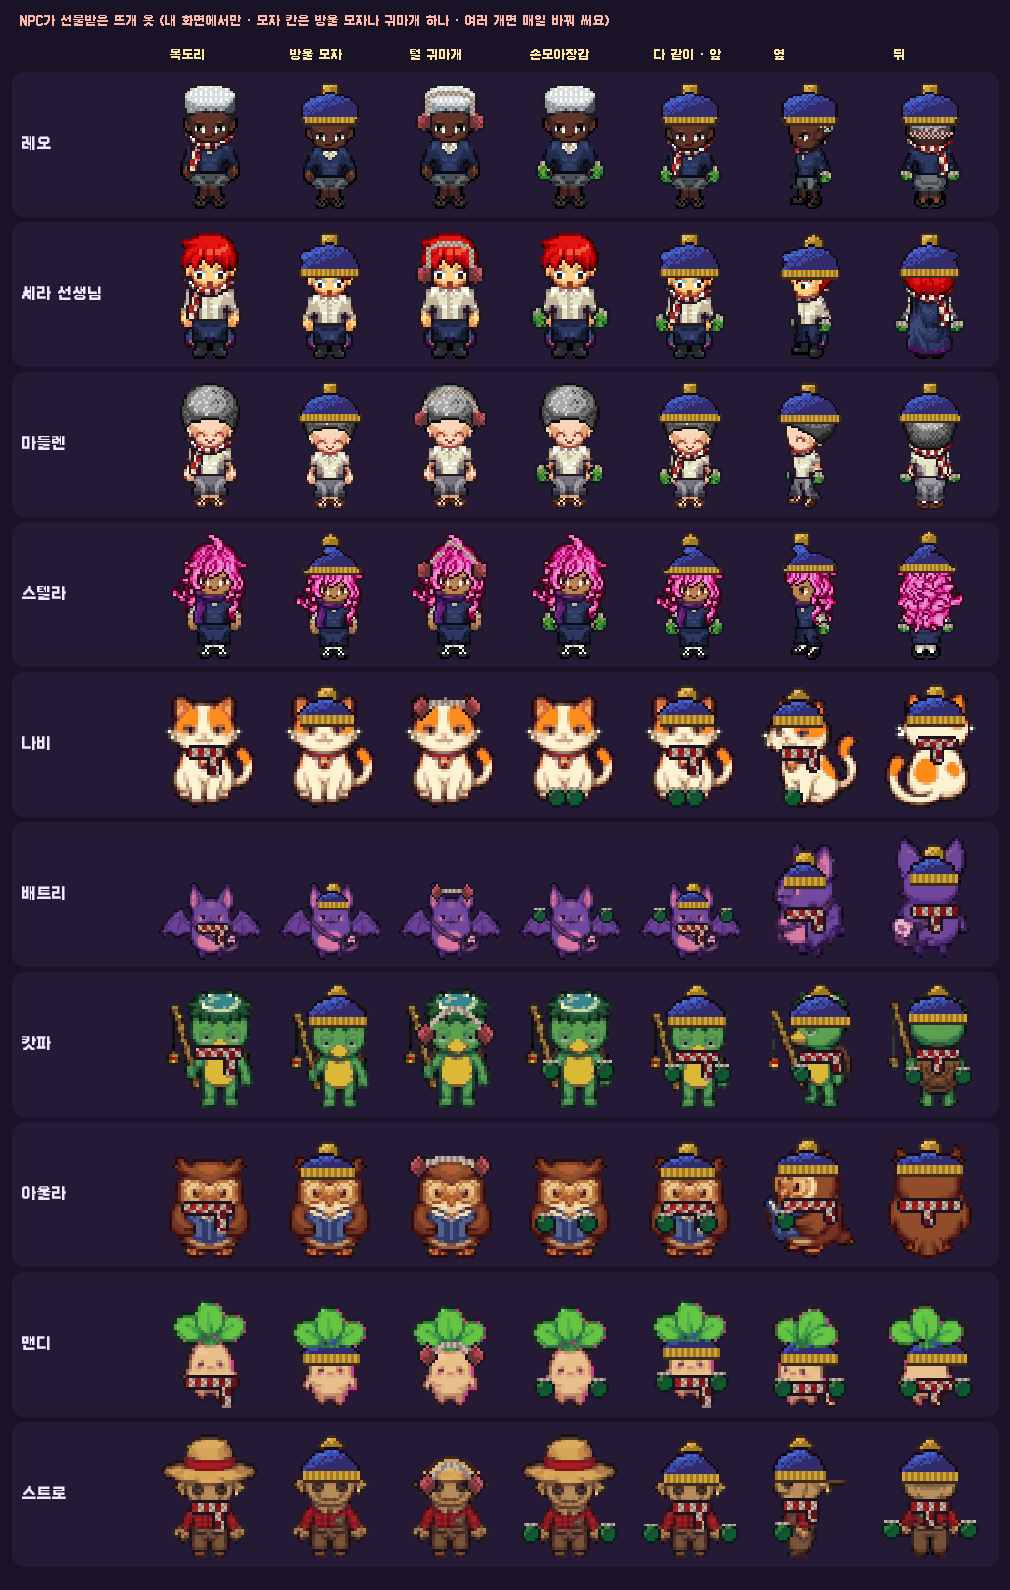
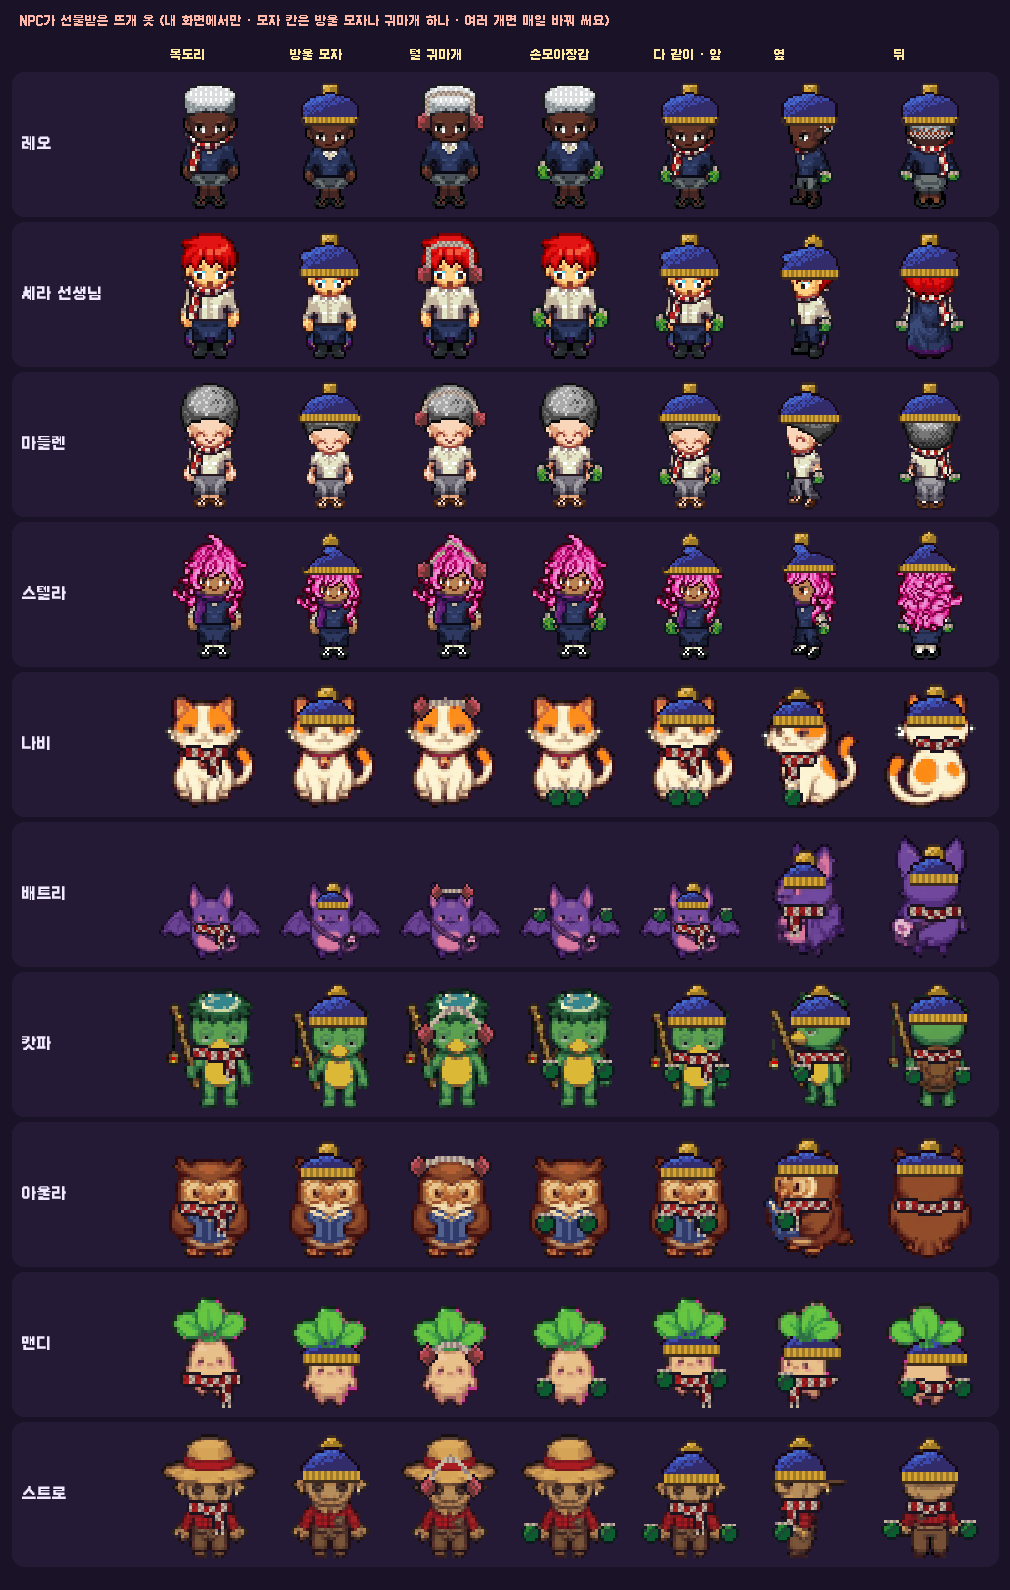
동물 NPC 뜨개 옷 옆 · 뒤 다듬기 (목도리를 몸 윤곽에 맞춰 · 끝자락 위치), 스트로 귀마개는 밀짚모자 위로
Claude-Session: https://claude.ai/code/session_01HhJ2NoNCjk5kaA3GWL7UDs

diff --git a/tools/iso/lpc/knit_npc.py b/tools/iso/lpc/knit_npc.py
@@ -121,23 +121,23 @@ class View:
 # 그림 NPC(동물 등): 앞 · 옆 · 뒤마다 직접 잡은 자리 — 모자(dome x0, x1, 꼭대기 y, 챙 y) · 귀마개(솜방울 자리들) · 목(y, x0, x1) · 손(자리들)
 SP_ = {
  'npc0': {'': dict(hat=(21, 36, 23, 30), muff=[(20, 25), (37, 25)], neck=(40, 23, 34), hands=[(25, 55), (31, 55)]),            # 나비: 귀는 모자 밖으로 · 귀마개는 귀에
-          '_side': dict(hat=(19, 33, 23, 30), muff=[(30, 25)], neck=(40, 21, 32), hands=[(24, 55)]),
+          '_side': dict(hat=(19, 33, 23, 30), muff=[(30, 25)], neck=(42, 22, 30), hands=[(24, 55)]),
           '_back': dict(hat=(25, 42, 21, 29), muff=[(23, 23), (43, 23)], neck=(36, 28, 40), hands=[])},
  'npc1': {'': dict(hat=(27, 38, 22, 28), muff=[(25, 21), (39, 21)], neck=(38, 26, 39), hands=[(17, 32), (48, 32)]),            # 배트리: 손 = 날개 끝 발톱
-          '_side': dict(hat=(24, 35, 22, 28), muff=[(33, 21)], neck=(38, 24, 35), hands=[]),
+          '_side': dict(hat=(24, 35, 22, 28), muff=[(33, 21)], neck=(37, 24, 34), hands=[]),
           '_back': dict(hat=(27, 40, 20, 27), muff=[(25, 18), (42, 18)], neck=(37, 27, 41), hands=[])},
  'npc2': {'': dict(hat=(25, 43, 18, 27), muff=[(24, 33), (44, 33)], neck=(39, 27, 41), hands=[(25, 45), (43, 45)]),            # 캇파: 접시 위로 · 손은 양옆
           '_side': dict(hat=(26, 44, 18, 27), muff=[(38, 32)], neck=(39, 28, 42), hands=[(28, 45)]),
           '_back': dict(hat=(26, 44, 18, 26), muff=[(25, 32), (45, 32)], neck=(38, 28, 42), hands=[(26, 46), (44, 46)])},
  'npc3': {'': dict(hat=(24, 39, 24, 30), muff=[(21, 27), (42, 27)], neck=(41, 24, 39), hands=[(24, 46), (38, 46)]),            # 아울라: 손 = 책 든 날개 끝
-          '_side': dict(hat=(23, 40, 24, 30), muff=[(36, 28)], neck=(41, 24, 40), hands=[(24, 46)]),
+          '_side': dict(hat=(23, 40, 24, 30), muff=[(36, 28)], neck=(41, 25, 37), hands=[(24, 46)]),
           '_back': dict(hat=(22, 41, 23, 29), muff=[(20, 27), (43, 27)], neck=(40, 22, 41), hands=[])},
  'npc4': {'': dict(hat=(27, 43, 36, 43), muff=[(27, 41), (43, 41)], neck=(52, 27, 43), hands=[(26, 52), (44, 52)], leaves=True),   # 맨디: 잎은 모자 위로 쏙
-          '_side': dict(hat=(25, 41, 36, 43), muff=[(37, 41)], neck=(52, 25, 41), hands=[(24, 52), (42, 52)], leaves=True),
+          '_side': dict(hat=(25, 41, 36, 43), muff=[(37, 41)], neck=(52, 25, 41), hands=[(24, 52)], leaves=True),
           '_back': dict(hat=(27, 44, 36, 43), muff=[(27, 41), (44, 41)], neck=(51, 27, 43), hands=[(26, 52), (44, 52)], leaves=True)},
- 'npc5': {'': dict(hat=(24, 40, 22, 31), muff=[(24, 33), (40, 33)], neck=(40, 26, 38), hands=[(18, 49), (45, 49)], strip=31),   # 스트로: 밀짚모자 벗고 털모자
-          '_side': dict(hat=(25, 39, 22, 31), muff=[(35, 33)], neck=(40, 27, 37), hands=[(26, 49)], strip=31),
-          '_back': dict(hat=(24, 40, 22, 31), muff=[(24, 33), (40, 33)], neck=(40, 26, 38), hands=[(19, 48), (45, 48)], strip=31)},
+ 'npc5': {'': dict(hat=(24, 40, 22, 31), muff=[(24, 33), (40, 33)], neck=(40, 26, 38), hands=[(18, 49), (45, 49)], strip=31, mufftop=14),   # 스트로: 밀짚모자 벗고 털모자
+          '_side': dict(hat=(25, 39, 22, 31), muff=[(35, 33)], neck=(40, 27, 37), hands=[(26, 49)], strip=31, mufftop=15),
+          '_back': dict(hat=(24, 40, 22, 31), muff=[(24, 33), (40, 33)], neck=(40, 26, 38), hands=[(19, 48), (45, 48)], strip=31, mufftop=14)},
 }
 class SpriteView:
     def __init__(s, v, who):
@@ -184,19 +184,18 @@ class SpriteView:
         return over(s.base, lay)
     def muff(s, a, b):
         base0 = s.base
-        if s.bare is not None and s.base is s.orig: s.base = s.bare
         try: return s._muff(a, b)
         finally: s.base = base0
     def _muff(s, a, b):
         lay = Image.new('RGBA', (64, 64), (0, 0, 0, 0)); P = lay.load(); ra, rb = RAMP[YARN[a]], RAMP[YARN[b]]; pts = s.p['muff']
         if len(pts) == 2:   # 두 솜방울을 머리 위로 잇는 띠
-            (ax_, ay_), (bx_, by_) = pts; _, _, top, _ = s.p['hat']; topy = top - 1
+            (ax_, ay_), (bx_, by_) = pts; _, _, top, _ = s.p['hat']; topy = s.p.get('mufftop', top - 1)
             for i in range(41):
                 t = i / 40; x = round(ax_ + (bx_ - ax_) * t); y = round((1 - t) ** 2 * ay_ + 2 * (1 - t) * t * (topy - 2) + t * t * by_)
                 for dy in (0, 1): P[x, y + dy] = (rb[3] if (x + y) % 2 else rb[2]) + (255,)
         else:
             (ax_, ay_), = pts; _, _, top, _ = s.p['hat']
-            for y in range(top - 1, ay_ - 2):
+            for y in range(s.p.get('mufftop', top - 1), ay_ - 2):
                 for dx in (0, 1): P[ax_ + dx, y] = (rb[3] if y % 2 else rb[2]) + (255,)
         for (cx, cy) in pts:
             puff = [(x, y) for y in range(64) for x in range(64) if ((x - cx) / 2.6) ** 2 + ((y - cy) / 3) ** 2 <= 1]
@@ -204,16 +203,23 @@ class SpriteView:
             lpc_fill(lay, puff, ra, light=(-1 if cx < 32 else 1, -1))
         return over(s.base, lay)
     def scarf(s, a, b, neck=None):
-        y0, x0, x1 = s.p['neck']; lay = Image.new('RGBA', (64, 64), (0, 0, 0, 0)); P = lay.load(); ra, rb = RAMP[YARN[a]], RAMP[YARN[b]]
-        band = [(x, y) for y in range(y0 - 1, y0 + 2) for x in range(x0, x1 + 1)]; tail = []
+        """몸 윤곽에 맞춰 감은 목도리: 띠는 몸이 있는 칸 + 양 끝 1 칸 두께 · 가운데가 1 칸 처져요 · 끝자락은 앞(앞모습 한쪽 · 옆모습 가슴 쪽)에만"""
+        y0, x0, x1 = s.p['neck']; lay = Image.new('RGBA', (64, 64), (0, 0, 0, 0)); P = lay.load(); ra, rb = RAMP[YARN[a]], RAMP[YARN[b]]; B = s.B
+        band = []; mid = (x0 + x1) / 2; half = max(1, (x1 - x0) / 2)
+        for x in range(x0 - 1, x1 + 2):
+            sag = 1 if abs(x - mid) < half * .45 and s.v != '_side' else 0
+            for y in range(y0 - 1 + sag, y0 + 2 + sag):
+                inside = B[x, y][3] > 0 or B[max(0, x - 1), y][3] > 0 or B[min(63, x + 1), y][3] > 0
+                if inside: band.append((x, y))
+        tail = []
         if s.v == '': tail = [(x, y) for y in range(y0 + 2, y0 + 8) for x in range(x1 - 4, x1 - 1)]
-        if s.v == '_back': m = (x0 + x1) // 2; tail = [(x, y) for y in range(y0 + 2, y0 + 7) for x in range(m - 1, m + 2)]
-        if s.v == '_side': tail = [(x, y) for y in range(y0 + 2, y0 + 6) for x in range(x1 - 2, x1 + 1)]
+        if s.v == '_side': tail = [(x, y) for y in range(y0 + 2, y0 + 7) for x in range(x0 + 1, x0 + 4)]   # 왼쪽을 보고 있어서 가슴 쪽 = 왼쪽
         pts = band + tail; lpc_fill(lay, pts, ra)
         for x, y in pts:
             if (x // 2 + y // 3) % 2 and P[x, y][:3] != ra[0]: P[x, y] = rb[2 + ((x + y) % 2)] + (255,)
-        for x in range(x1 - 4, x1 - 1, 1):
-            if s.v == '': P[x, y0 + 8] = rb[2] + (255,)
+        if tail:   # 술
+            tx0 = min(x for x, _ in tail); ty = max(y for _, y in tail) + 1
+            for x in range(tx0, tx0 + 3, 2): P[x, ty] = rb[2] + (255,); P[x, ty + 1] = rb[3] + (255,)
         return over(s.base, lay)
     def gloves(s, a, b):
         if not s.p['hands']: return over(s.base)

diff --git a/tools/knit_mock/knit_story.md b/tools/knit_mock/knit_story.md
@@ -92,5 +92,5 @@
 ## 13. 모자 칸 규칙 · 매일 바꿔 쓰기 (사람 · NPC 모두)
 - 방울 모자와 털 귀마개는 같은 모자 칸이라 둘 중 하나만 써요.
 - NPC가 같은 칸 뜨개를 여러 개 받으면 (예: 빨강 모자 · 파랑 모자 · 귀마개) 매일 자정에 그중 하나를 무작위로 골라 그날 하루 써요 (학생 · NPC · 날짜로 시드 고정이라 하루 동안은 같아요). 목도리 · 장갑도 여러 개면 똑같이 매일 바뀌어요.
-- 스트로는 털모자나 귀마개를 쓰는 날엔 밀짚모자를 벗어요 (목도리 · 장갑만이면 밀짚모자 그대로).
+- 스트로는 털모자를 쓰는 날엔 밀짚모자를 벗고, 귀마개는 밀짚모자 위로 써요 (띠가 밀짚모자 꼭대기를 지나요).
 - 그림 NPC(나비 · 배트리 · 캇파 · 아울라 · 맨디 · 스트로)는 앞 · 옆 · 뒤마다 머리 · 귀 · 목 · 손 자리를 직접 잡았어요 (`knit_npc.py`의 SP_ 표): 나비 · 배트리 · 아울라는 귀가 모자 밖으로 나오고 귀마개는 귀에 씌워요 · 맨디는 잎이 모자를 뚫고 나와요 · 배트리 손 = 날개 끝 발톱 · 아울라 손 = 책 든 날개 끝.
